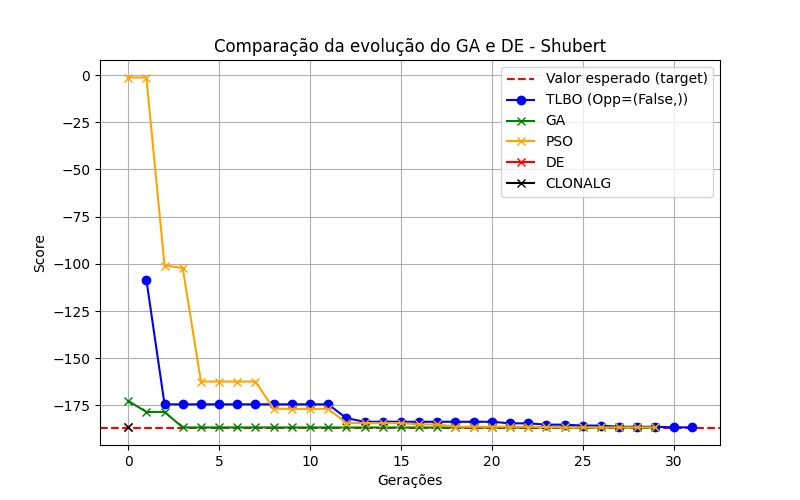
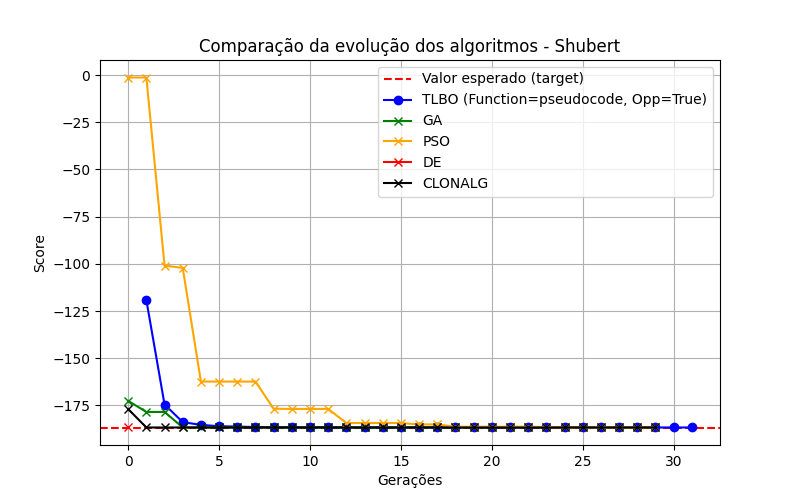
finish the two

diff --git a/main.py b/main.py
@@ -4,23 +4,33 @@ import matplotlib.pyplot as plt
 import itertools
 import statistics
 
-from tlbo_algorithm import run_tlbo_flowchart
+from tlbo_algorithm import run_tlbo_flowchart, run_tlbo_pseudocode
 
 
-def get_result_and_plot(generations, m, data_config, opposition, config_code):
+def get_result_and_plot(generations, m, data_config, opposition, function_key, config_code):
     all_results = []
     all_scores_g = []
     best_result = None
     best_score = float('inf')  # ou float('-inf') dependendo se você minimiza ou maximiza
 
-    for i in range(1):
-        result, scores_g = run_tlbo_flowchart(iterations=generations, P=m, data_config=data_config, opposition=opposition)
-        all_results.append(result)
-        all_scores_g.append(scores_g)
+    if function_key == 'flowchart':
+        for i in range(30):
+            result, scores_g = run_tlbo_flowchart(iterations=generations, P=m, data_config=data_config, opposition=opposition)
+            all_results.append(result)
+            all_scores_g.append(scores_g)
 
-        if result < best_score:  # Assumindo que você está minimizando
-            best_score = result
-            best_result = result
+            if result < best_score:  # Assumindo que você está minimizando
+                best_score = result
+                best_result = result
+    else:
+        for i in range(30):
+            result, scores_g = run_tlbo_pseudocode(iterations=generations, P=m, data_config=data_config, opposition=opposition)
+            all_results.append(result)
+            all_scores_g.append(scores_g)
+
+            if result < best_score:  # Assumindo que você está minimizando
+                best_score = result
+                best_result = result
 
     # Cálculo da média dos scores_g ao longo das execuções para cada geração
     if all_scores_g:
@@ -35,6 +45,7 @@ def get_result_and_plot(generations, m, data_config, opposition, config_code):
         "best_result": best_result,
         "mean_scores_g": mean_scores_g,
         "opposition": opposition,
+        'function_key': function_key,
         "generations": generations,
         "m": m,
         "problem": data_config.get("problem")
@@ -56,15 +67,15 @@ def your_function_to_track():
     }
     all_results = []
     oppositions = [True, False]
-    gamma = 0.1  # Constante
+    function_keys = ['flowchart', 'pseudocode']
 
     config_counter = 1
 
     for problem, target in {"shubert": -186.7309, "camel": -1.0316}.items():
         data_config["problem"] = problem
-        for opposition in itertools.product(oppositions):
-            print(f"Rodando: prob={problem}, gen={generations}, m={m}, opp={opposition}, config={config_counter}")
-            result_dict = get_result_and_plot(generations, m, data_config, opposition, config_counter)
+        for opposition, function_key in itertools.product(oppositions, function_keys):
+            print(f"Rodando: prob={problem}, gen={generations}, m={m}, opp={opposition}, function_key={function_key}, config={config_counter}")
+            result_dict = get_result_and_plot(generations, m, data_config, opposition, function_key, config_counter)
             all_results.append(result_dict)
             config_counter += 1
 
@@ -80,7 +91,7 @@ def your_function_to_track():
         plt.grid(True)
         plt.xticks(
             range(1, len(data) + 1),
-            [f"Opp={r['opposition']}" for _, r in data.iterrows()],
+            [f"Fun.={r['function_key']} Opp={r['opposition']}" for _, r in data.iterrows()],
             rotation=45,
             ha="right"
         )
@@ -91,11 +102,11 @@ def your_function_to_track():
     best_shubert = df[df["problem"] == "shubert"].sort_values(by="best_result").iloc[0]
     print('Melhor Shubert:')
     print(best_shubert.drop(columns=['mean_scores']))
-    best_shubert.to_csv('melhores_fitness_shubert_clonalg.csv')
+    best_shubert.to_csv('melhores_fitness_shubert_tlbo.csv')
     best_camel = df[df["problem"] == "camel"].sort_values(by="best_result").iloc[0]
     print('Melhor Camel:')
     print(best_camel.drop(columns=['mean_scores']))
-    best_camel.to_csv('melhores_fitness_camel_clonalg.csv')
+    best_camel.to_csv('melhores_fitness_camel_tlbo.csv')
 
     # === Leitura dos dados do GA
     try:
@@ -111,12 +122,12 @@ def your_function_to_track():
         # === Gráfico de comparação SHUBERT
         plt.figure(figsize=(8, 5))
         plt.axhline(y=-186.7309, color="r", linestyle="--", label="Valor esperado (target)")
-        plt.plot(range(1, len(best_shubert["mean_scores_g"]) + 1), best_shubert["mean_scores_g"], 'o-', label=f"TLBO (Opp={best_shubert['opposition']})", color="blue")
+        plt.plot(range(1, len(best_shubert["mean_scores_g"]) + 1), best_shubert["mean_scores_g"], 'o-', label=f"TLBO (Function={best_shubert['function_key']}, Opp={best_shubert['opposition']})", color="blue")
         plt.plot(ast.literal_eval(df_ga_shubert_GA.iloc[7].values[1]), 'x-', label="GA", color="green")
         plt.plot(ast.literal_eval(df_ga_shubert_PSO.iloc[4].values[1]), 'x-', label="PSO", color="orange")
         plt.plot(ast.literal_eval(df_ga_shubert_de.iloc[1].values[1]), 'x-', label="DE", color="red")
-        plt.plot(ast.literal_eval(df_ga_shubert_clonalg.iloc[1].values[1]), 'x-', label="CLONALG", color="black")
-        plt.title("Comparação da evolução do GA e DE - Shubert")
+        plt.plot(ast.literal_eval(df_ga_shubert_clonalg.iloc[2].values[1]), 'x-', label="CLONALG", color="black")
+        plt.title("Comparação da evolução dos algoritmos - Shubert")
         plt.xlabel("Gerações")
         plt.ylabel("Score")
         plt.legend()
@@ -126,18 +137,18 @@ def your_function_to_track():
         # === Gráfico de comparação CAMEL
         plt.figure(figsize=(8, 5))
         plt.axhline(y=-1.0316, color="r", linestyle="--", label="Valor esperado (target)")
-        plt.plot(range(1, len(best_camel["mean_scores_g"]) + 1), best_camel["mean_scores_g"], 'o-', label=f"TLBO (Opp={best_camel['opposition']})", color="blue")
+        plt.plot(range(1, len(best_camel["mean_scores_g"]) + 1), best_camel["mean_scores_g"], 'o-', label=f"TLBO (Function={best_shubert['function_key']}, Opp={best_camel['opposition']})", color="blue")
         plt.plot(ast.literal_eval(df_ga_camel_GA.iloc[7].values[1]), 'x-', label="GA", color="green")
         plt.plot(ast.literal_eval(df_ga_camel_PSO.iloc[4].values[1]), 'x-', label="PSO", color="orange")
         plt.plot(ast.literal_eval(df_ga_camel_de.iloc[1].values[1]), 'x-', label="DE", color="red")
-        plt.plot(ast.literal_eval(df_ga_camel_clonalg.iloc[1].values[1]), 'x-', label="CLONALG", color="black")
-        plt.title("Comparação da evolução do GA e DE - Camel")
+        plt.plot(ast.literal_eval(df_ga_camel_clonalg.iloc[2].values[1]), 'x-', label="CLONALG", color="black")
+        plt.title("Comparação da evolução dos algoritmos - Camel")
         plt.xlabel("Gerações")
         plt.ylabel("Score")
         plt.legend()
         plt.grid(True)
-        plt.savefig('images/comparation_camel_de.png')
         plt.ylim(-2.0, 0.0)
+        plt.savefig('images/comparation_camel_de.png')
     except FileNotFoundError:
         print("Arquivos 'melhores_fitness_shubert.csv' ou 'melhores_fitness_camel.csv' não encontrados para comparação com GA.")
 

diff --git a/tlbo_algorithm.py b/tlbo_algorithm.py
@@ -40,25 +40,6 @@ def run_function(data_config, variables):
     else:
         return [(1 / (camel(x[0], x[1]) + 200)) for x in variables]
 
-def rank_population(population, scores):
-    indices = sorted(range(len(scores)), key=lambda i: scores[i], reverse=True)
-    return [population[i] for i in indices], [scores[i] for i in indices]
-
-def mutate(cl, gamma_seed, data_config, fit):
-    x1_base, x1_top = data_config['range']['x1']['base'], data_config['range']['x1']['top']
-    x2_base, x2_top = data_config['range']['x2']['base'], data_config['range']['x2']['top']
-    range_x1 = x1_top - x1_base
-    range_x2 = x2_top - x2_base
-
-    gamma_x1 = gamma_seed * range_x1
-    gamma_x2 = gamma_seed * range_x2
-    alfa_x1 = gamma_x1 * math.exp(-fit)
-    alfa_x2 = gamma_x2 * math.exp(-fit)
-
-    new_x1 = min(x1_top, max(x1_base, cl[0] + random.uniform(-alfa_x1, alfa_x1)))
-    new_x2 = min(x2_top, max(x2_base, cl[1] + random.uniform(-alfa_x2, alfa_x2)))
-    return [new_x1, new_x2]
-
 def run_tlbo_flowchart(iterations, P, data_config, opposition):
     population = initialize(P, data_config, opposition)
     scores = run_function(data_config, population)
@@ -145,6 +126,90 @@ def run_tlbo_flowchart(iterations, P, data_config, opposition):
     # Retorna o valor real da função objetivo para o melhor indivíduo encontrado
     return (1 / best_global_score) - 200, best_objective_values_per_iteration
 
+def run_tlbo_pseudocode(iterations, P, data_config, opposition):
+    population = initialize(P, data_config, opposition)
+    scores = run_function(data_config, population)
+
+    best_global_individual = population[scores.index(max(scores))]
+    best_global_score = max(scores)
+    
+    best_objective_values_per_iteration = [(1 / best_global_score) - 200]
+
+    for _ in range(iterations):
+        # Encontrar o professor da população atual
+        teacher_index = scores.index(max(scores))
+        teacher = population[teacher_index]
+        mean_vector = [statistics.mean([ind[d] for ind in population]) for d in [0, 1]]
+
+        new_population = []
+        new_scores = []
+
+        # Fase Professor
+        for i in range(P):
+            TF = random.choice([1, 2])
+            # Criar um novo aluno baseado no professor e na média
+            r_val = random.random()
+            teacher_learner = [
+                population[i][dim] + r_val * (teacher[dim] - TF * mean_vector[dim])
+                for dim in [0, 1]
+            ]
+            
+            # Garantir que os valores estejam dentro dos limites (Bound Checking)
+            x1_base, x1_top = data_config['range']['x1']['base'], data_config['range']['x1']['top']
+            x2_base, x2_top = data_config['range']['x2']['base'], data_config['range']['x2']['top']
+            teacher_learner[0] = max(x1_base, min(x1_top, teacher_learner[0]))
+            teacher_learner[1] = max(x2_base, min(x2_top, teacher_learner[1]))
+
+            teacher_learner_score = run_function(data_config, [teacher_learner])[0]
+            
+            if teacher_learner_score > scores[i]: # Compara com o score do indivíduo original na população
+                new_population.append(teacher_learner)
+                new_scores.append(teacher_learner_score)
+                if teacher_learner_score > best_global_score:
+                    best_global_score = teacher_learner_score
+                    best_global_individual = teacher_learner
+                # Fase Alunos
+                for i in range(P):
+                    j = random.choice([idx for idx in range(P) if idx != i])
+
+                    r_val = random.random()
+                    if scores[i] > scores[j]:
+                        student_learner = [
+                            population[i][dim] + r_val * (population[i][dim] - population[j][dim])
+                            for dim in [0, 1]
+                        ]
+                    else:
+                        student_learner = [
+                            population[i][dim] + r_val * (population[j][dim] - population[i][dim])
+                            for dim in [0, 1]
+                        ]
+
+                    # Garantir que os valores estejam dentro dos limites (Bound Checking)
+                    student_learner[0] = max(x1_base, min(x1_top, student_learner[0]))
+                    student_learner[1] = max(x2_base, min(x2_top, student_learner[1]))
+
+                    student_learner_score = run_function(data_config, [student_learner])[0]
+
+                    if student_learner_score > scores[i]:
+                        population[i] = student_learner
+                        scores[i] = student_learner_score
+                        if student_learner_score > best_global_score:
+                            best_global_score = student_learner_score
+                            best_global_individual = student_learner
+                    
+            else:
+                new_population.append(population[i]) # Mantém o indivíduo original se não houver melhoria
+                new_scores.append(scores[i])
+
+        # Atualiza a população e scores para a fase do aluno com os resultados da fase do professor
+        population = new_population[:] # Use slicing para criar uma cópia
+        scores = new_scores[:]
+        
+        best_objective_values_per_iteration.append((1/max(scores))-200)
+
+    # Retorna o valor real da função objetivo para o melhor indivíduo encontrado
+    return (1 / best_global_score) - 200, best_objective_values_per_iteration
+
 if __name__ == "__main__":
     data_config = {
         "problem": "shubert",
@@ -153,5 +218,6 @@ if __name__ == "__main__":
             "x2": {"base": -10, "top": 10},
         },
     }
-    score, scores = run_tlbo_flowchart(iterations=30, P=100, data_config=data_config, opposition=False)
+    # score, scores = run_tlbo_flowchart(iterations=30, P=100, data_config=data_config, opposition=False)
+    score, scores = run_tlbo_pseudocode(iterations=30, P=100, data_config=data_config, opposition=False)
     print(score)
